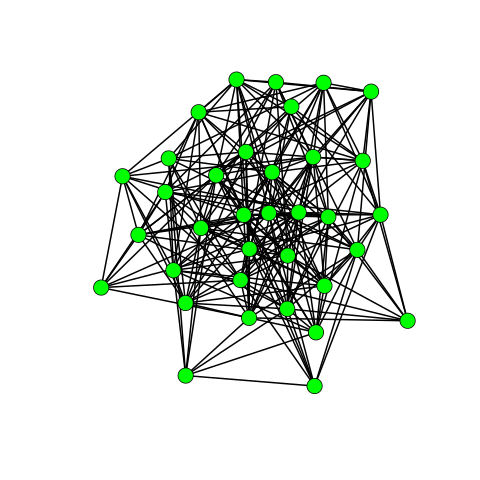
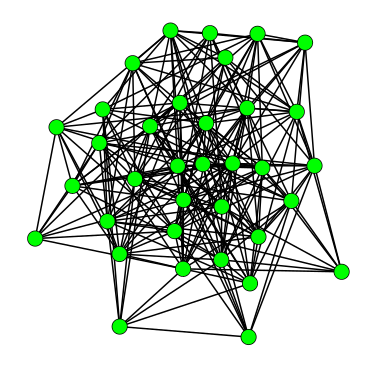
Finish section 2.2.

diff --git a/crisis.tex b/crisis.tex
@@ -121,14 +121,109 @@ expectations.
 
 \section{Software and complexity}
 
-% The software crisis
+Let's consider a different way to measure a program's complexity than simply
+counting the lines of code. Instead, let's quantify its number of
+\textit{dependencies}.
 
-% "soft"ware
-% time vs. complexity curve
+A \textbf{dependency} between two chunks of software (be they individual lines
+of code, constructs like loops or if/else chains, functions, or something even
+bigger) means that \textit{if one of them changes, the other may possibly be
+affected.}
 
-% Programming language diagram
+For instance, suppose I define a function \texttt{compute\_sales\_tax()} to
+take one argument: the price of an item. It will return the sales tax on that
+item as a simple percentage. We'll call that ``code chunk A.'' Now suppose
+that I call the function in ``code chunk B'' as follows:
 
-\section{Dependencies}
+\begin{Verbatim}[fontsize=\small,samepage=true,frame=single]
+// In code chunk B...
+double item_price = 24.99;
+double total_price = item_price + compute_sales_tax(item_price);
+\end{Verbatim}
+
+We say that code chunk B has a dependency on A. If we were to change A to
+require a second parameter (perhaps the state the customer lives in, since
+different states have different laws about whether and how to collect sales
+tax), that's great and all, \textit{but B immediately breaks}.
+
+This example is a syntactic dependency: the compiler will fail when trying to
+compile code chunk B because its parameter list is wrong (\textit{i.e.},
+doesn't match A's). In general, though, dependencies are much broader than
+just syntactic dependencies. They are also \textit{logical} dependencies, in
+which one chunk of code depends on another's functionality working a certain
+way.
+
+For example, suppose that we change \texttt{compute\_sales\_tax()} in a
+different way: instead of returning the sales tax, we make it return the cost
+of the item \textit{plus} the sales tax. If our tax rate is 5\%, then the
+original version of \texttt{compute\_sales\_tax(24.99)} would return 1.25 (the
+sales tax on the item), but our new version would return 26.24 (the item's
+price with its sales tax added in).
+
+This may seem like a good change, since it prevents code like that in chunk B
+from having to add the item's price back in. However, if we don't change B in
+tandem with A, \textit{B breaks again}. It's not a compilation error this
+time, but a logic error: B's \texttt{total\_price} variable is now going to
+contain 51.23 because we didn't keep the two chunks of code in sync.
+
+\subsection{Dependencies == complexity}
+
+Now why do I bring all this up? Because it turns out that the \textit{length}
+of a program was not the cause of the software crisis. Instead, it was
+\textit{the number of dependencies.} That turns out to be a different, and
+more salient, measure of a program's complexity.
+
+\begin{figure}[ht]
+\centering
+\includegraphics[width=0.45\textwidth]{highDependencies.png}
+\includegraphics[width=0.45\textwidth]{lowDependencies.png}
+\caption{Two programs, each with the same 35 code chunks. On the left, there
+are 230 dependencies. On the right, there are only 83.}
+\label{fig:dependencies}
+\end{figure}
+
+Consider the two graphs\footnote{A \textbf{graph} in Computer Science terms is
+a data structure that consists of \textbf{vertices} (or \textbf{nodes}) and
+\textbf{edges} (or \textbf{links}) connecting them. They're often drawn with
+circles and lines, as Figure~\ref{fig:dependencies} does.} in
+Figure~\ref{fig:dependencies}. Imagine that each green circle represents one
+chunk of code. Each line between circles represents a dependency: the two
+chunks of code it connects rely on each other \textit{not} to change, because
+if one of them changes, the other one might break.
+
+The kind of program illustrated by the left-hand graph sometimes goes by the
+name \textbf{spaghetti code}. You can see why just by looking at it.
+Essentially, every line of code potentially depends on everything else.
+
+By contrast, the right-hand graph depicts a \textbf{modular} program. It has
+the same amount of functionality -- 35 green circles in each case -- but far
+fewer dependencies between them (only about a third as many). Looking further,
+you can see how most of the circles are ``hiding'' behind a gatekeeper circle
+that connects to the main group. These circles are shielded from the morass of
+dependencies by living in an isolated world, and only communicating with the
+rest of the program through their gatekeeper.
+
+Now look back at the left-hand graph. Choose one of the circles at random, and
+imagine that it represents a chunk of code you need to change (maybe there's a
+bug in it you have to fix, or you need to extend it in some way). Think about
+the repercussions of that task. Fixing the green circle is a job in itself,
+but once you've done so, how can you be sure you didn't break something else?
+There might be twenty other chunks of code that depend on the first one
+staying the way it was in order to work correctly. Just identifying all of
+them is an enormous task, to say nothing of verifying that they all still
+work, and fixing the ones that don't. And oh, by the way: if you \textit{do}
+end up having to fix another green circle because your first change caused a
+ripple effect...that second change is going to cause the exact same problem.
+
+The situation is obviously much easier with the right-hand program. Again,
+choose a circle at random, and then ask yourself how onerous it is to change
+it. If you choose one of the many circles that are ``hiding'' behind their
+gatekeeper, the possible damage is minuscule: only three or four other circles
+might be affected. If you have to change a gatekeeper, the news is worse, but
+still far better than it was with the left-hand program. Just count how many
+dependencies there are for even the most densely connected circle of the
+modular program -- it ain't many.
+
 
 \section{Encapsulation}
 
